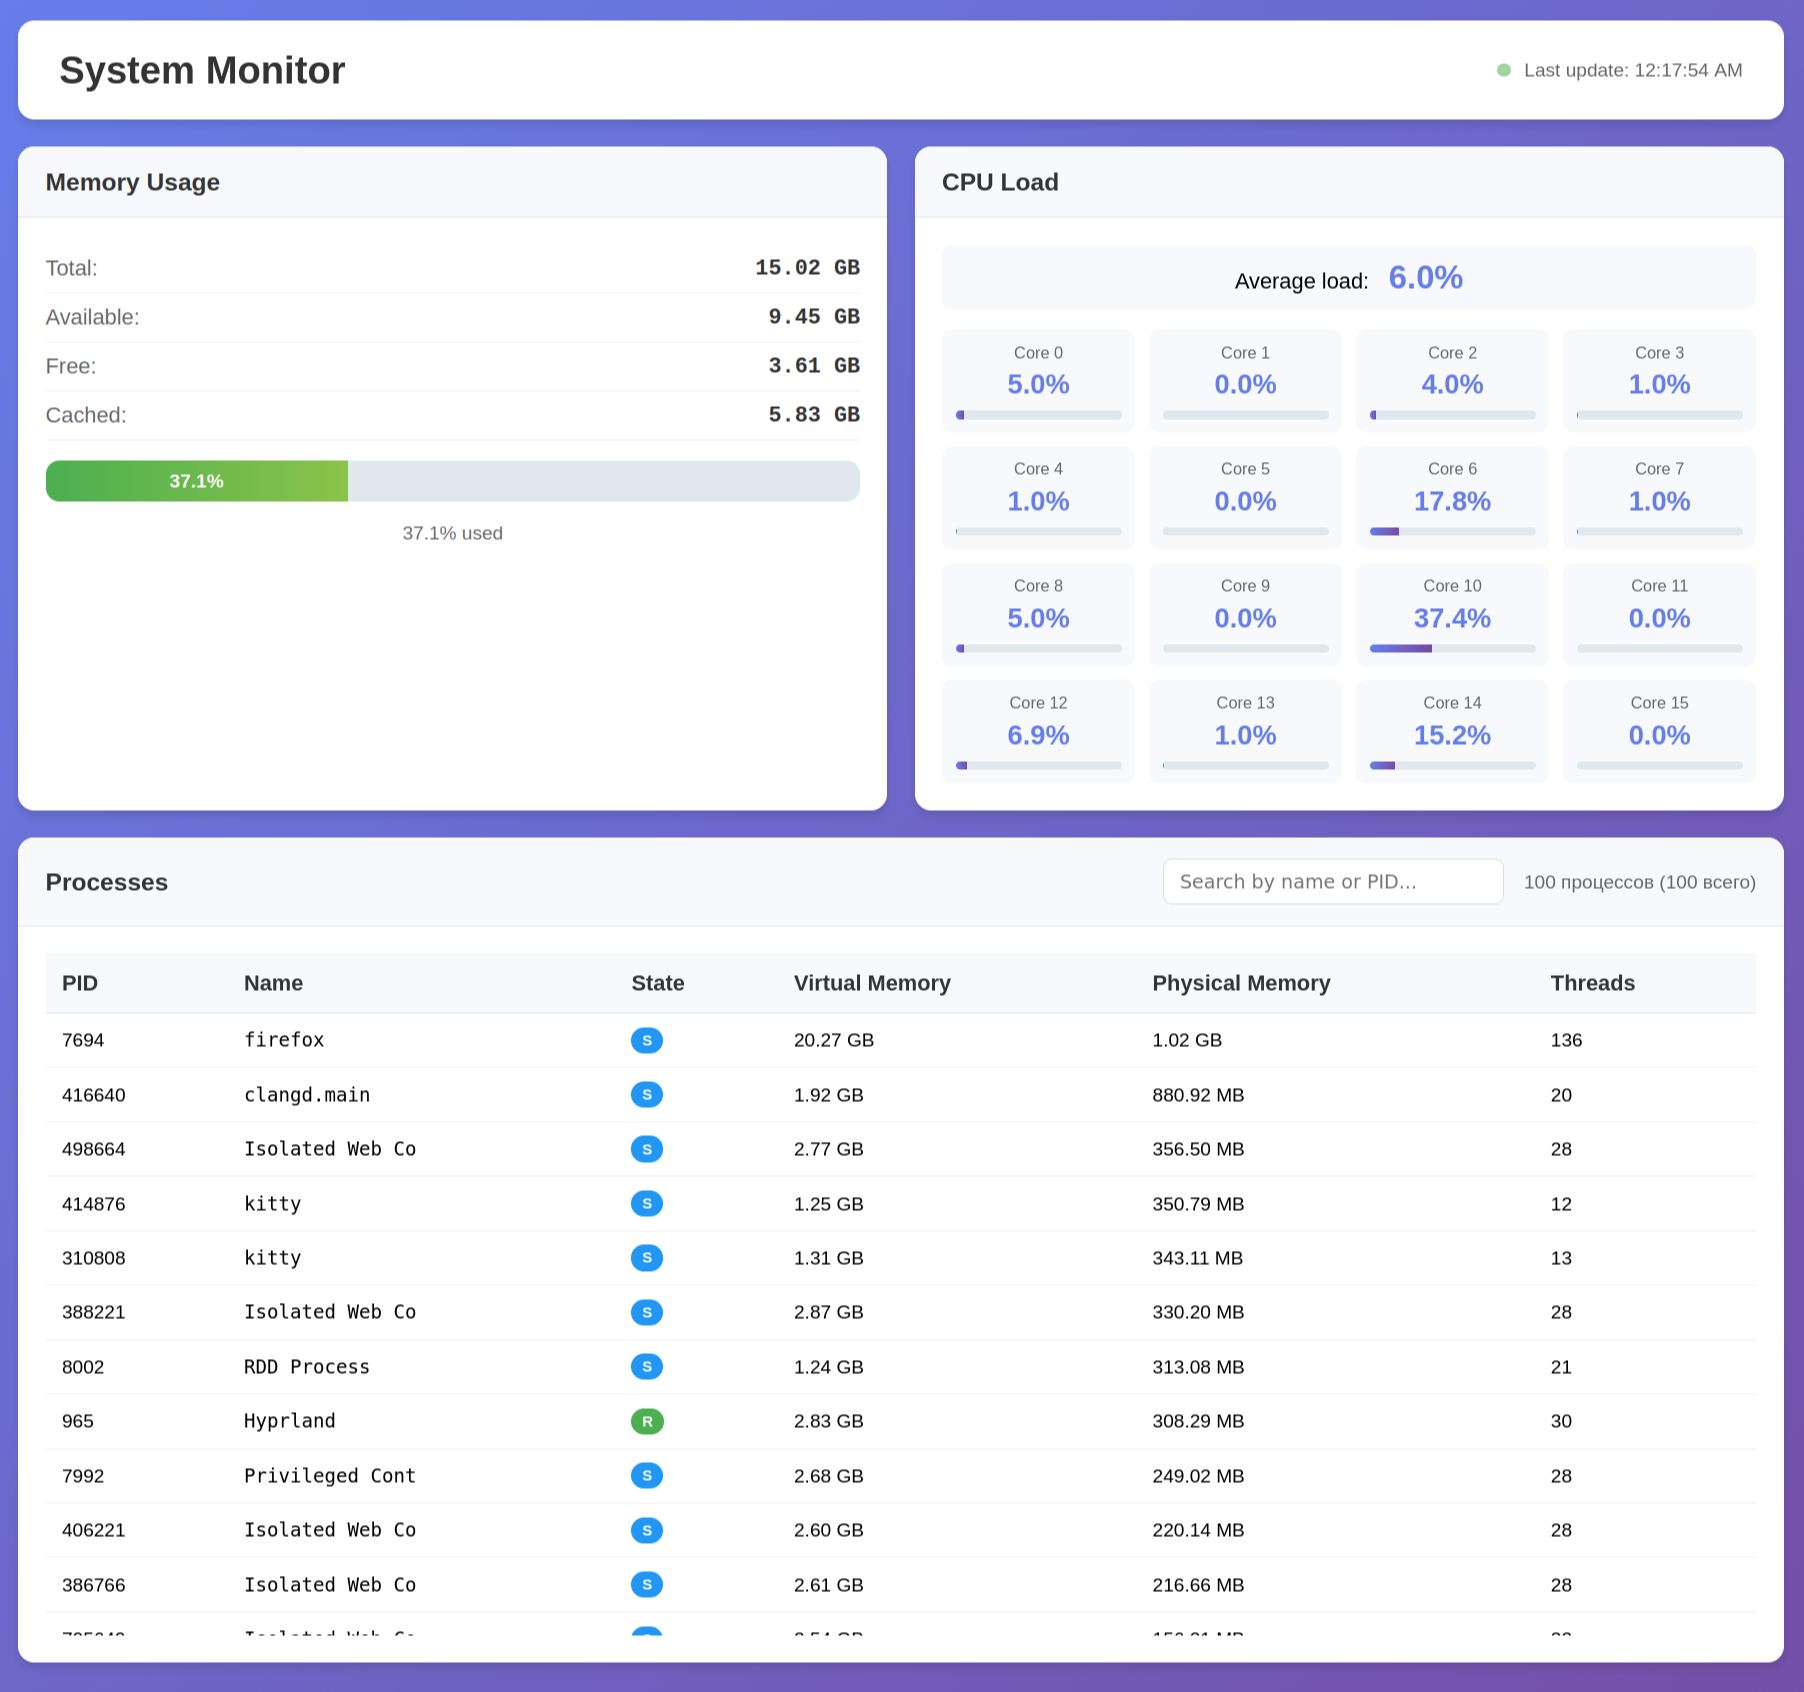
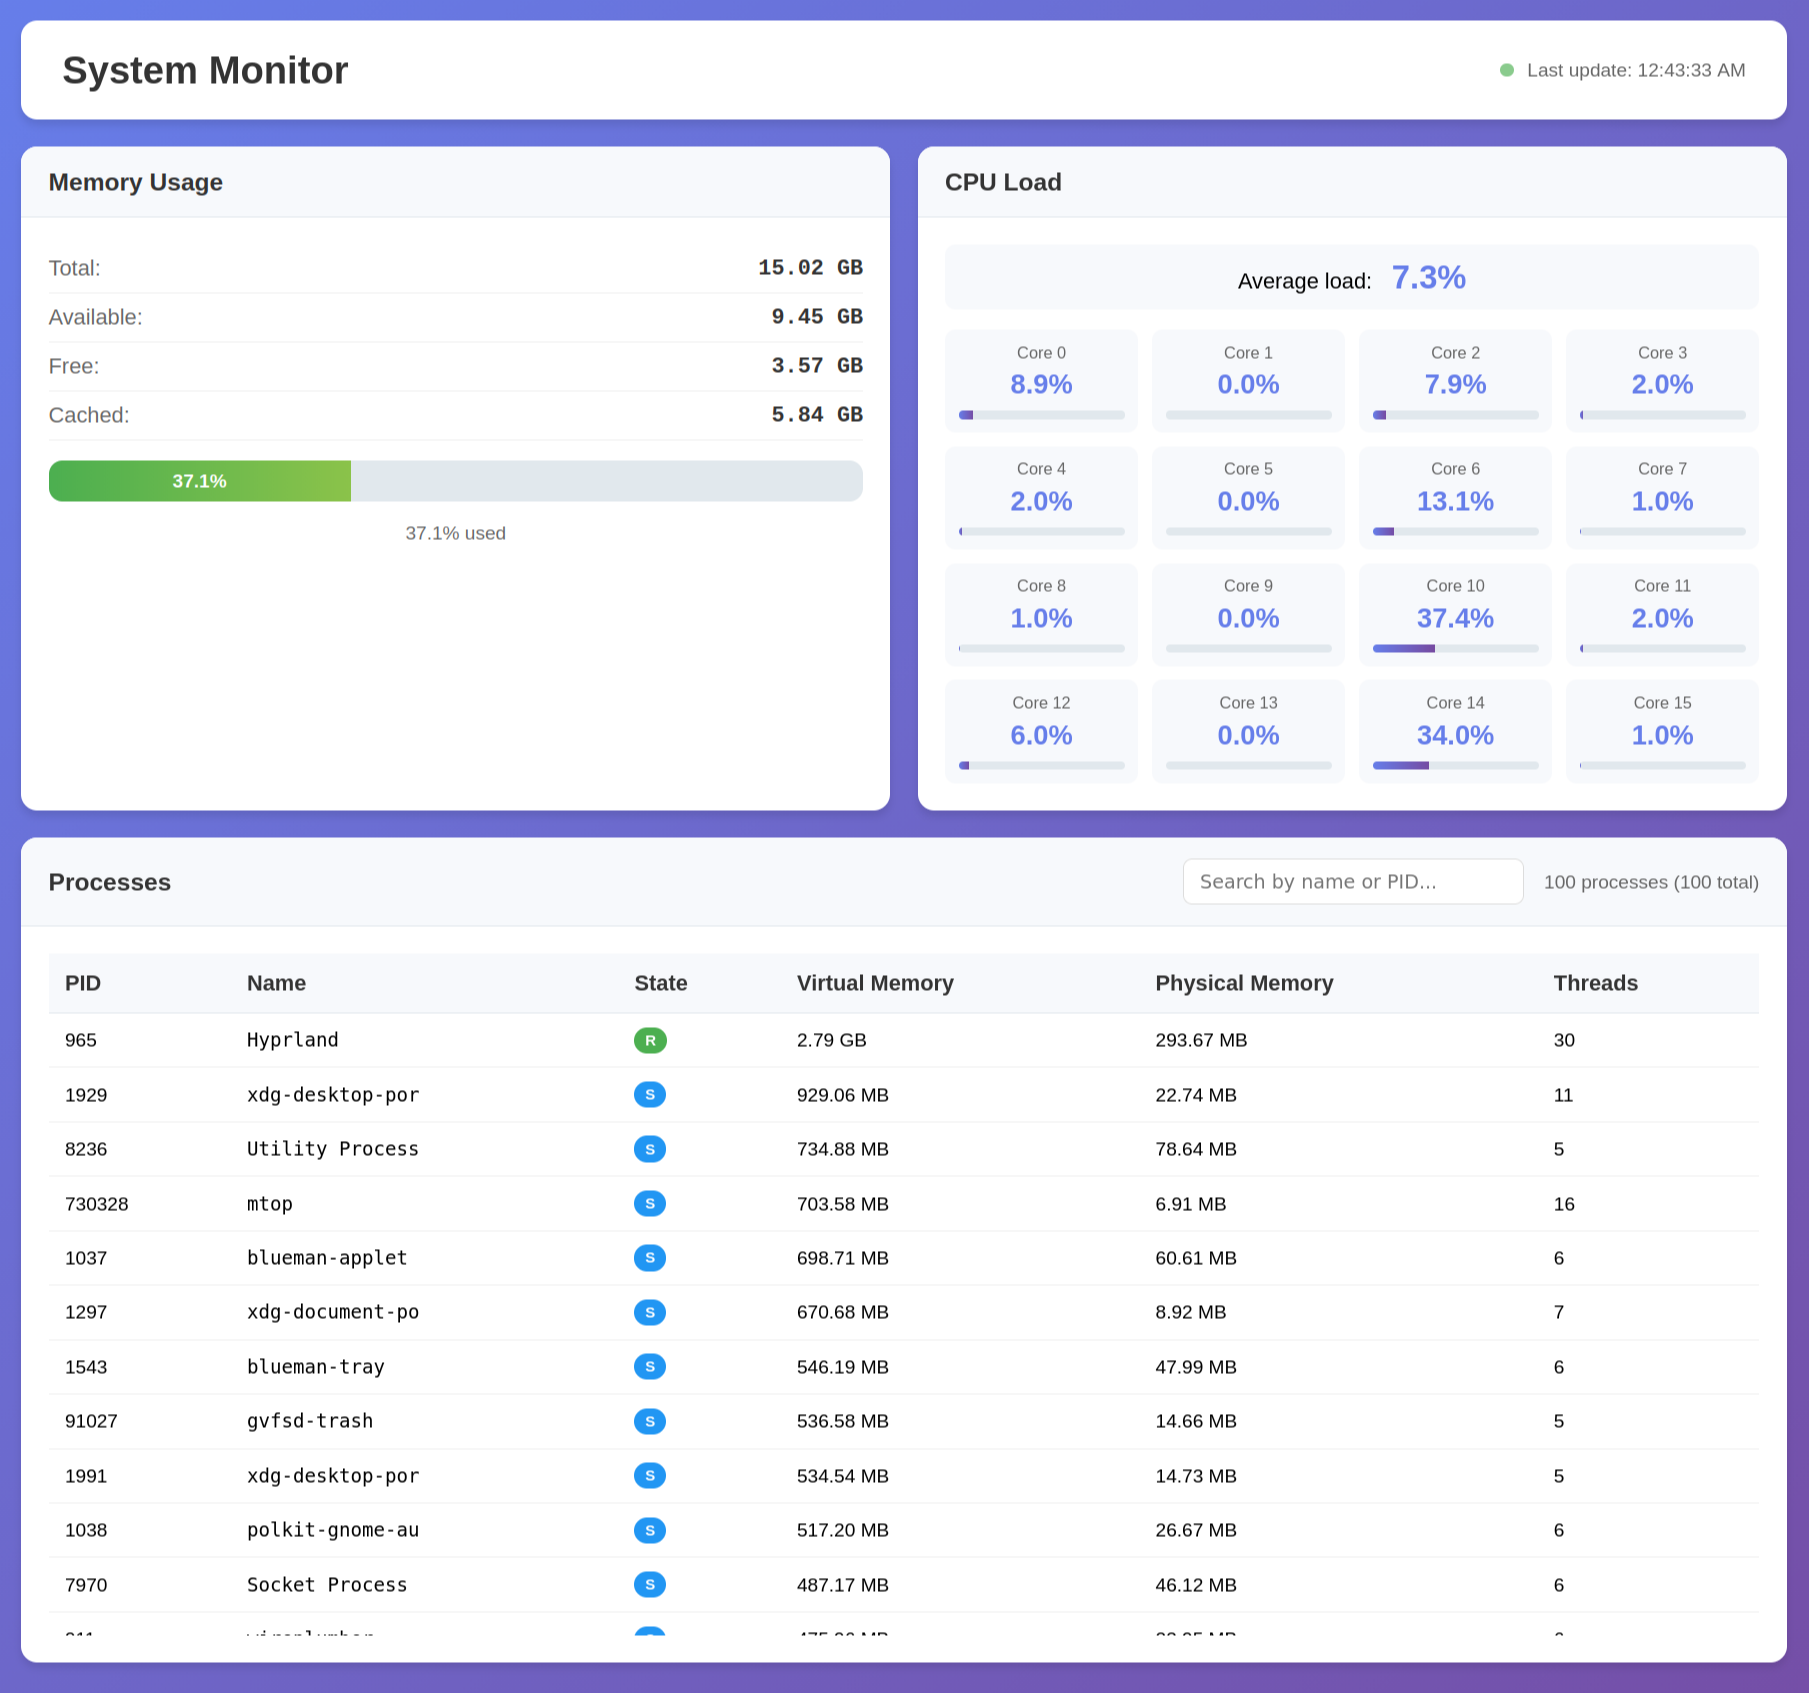
update screenshot, label

diff --git a/web/script.js b/web/script.js
@@ -141,7 +141,7 @@ function filterProcesses() {
     });
     const processCountEl = document.getElementById('process-count');
     if (processCountEl) {
-        processCountEl.textContent = `${visibleCount} процессов (${rows.length} всего)`;
+        processCountEl.textContent = `${visibleCount} processes (${rows.length} total)`;
     }
 }
 /**
@@ -176,7 +176,7 @@ async function updateProcesses() {
         // Обновляем счетчик процессов
         const processCountEl = document.getElementById('process-count');
         if (processCountEl) {
-            processCountEl.textContent = `${displayProcesses.length} процессов (${processes.length} всего)`;
+            processCountEl.textContent = `${displayProcesses.length} processes (${processes.length} total)`;
         }
         // Повторно применяем фильтрацию (сохраняем поисковый запрос)
         filterProcesses();
@@ -190,7 +190,7 @@ async function updateProcesses() {
     }
 }
 /**
- * Экранирует HTML-символы для предотвращения XSS-атак
+ * Экранирует HTML-символы
  * @param str - Входная строка
  * @returns Экранированная строка
  */

diff --git a/web/script.ts b/web/script.ts
@@ -196,7 +196,7 @@ function filterProcesses(): void {
 
   const processCountEl: HTMLElement | null = document.getElementById('process-count');
   if (processCountEl) {
-    processCountEl.textContent = `${visibleCount} процессов (${rows.length} всего)`;
+    processCountEl.textContent = `${visibleCount} processes (${rows.length} total)`;
   }
 }
 
@@ -238,7 +238,7 @@ async function updateProcesses(): Promise<void> {
     // Обновляем счетчик процессов
     const processCountEl: HTMLElement | null = document.getElementById('process-count');
     if (processCountEl) {
-      processCountEl.textContent = `${displayProcesses.length} процессов (${processes.length} всего)`;
+      processCountEl.textContent = `${displayProcesses.length} processes (${processes.length} total)`;
     }
 
     // Повторно применяем фильтрацию (сохраняем поисковый запрос)
@@ -254,7 +254,7 @@ async function updateProcesses(): Promise<void> {
 }
 
 /**
- * Экранирует HTML-символы для предотвращения XSS-атак
+ * Экранирует HTML-символы
  * @param str - Входная строка
  * @returns Экранированная строка
  */